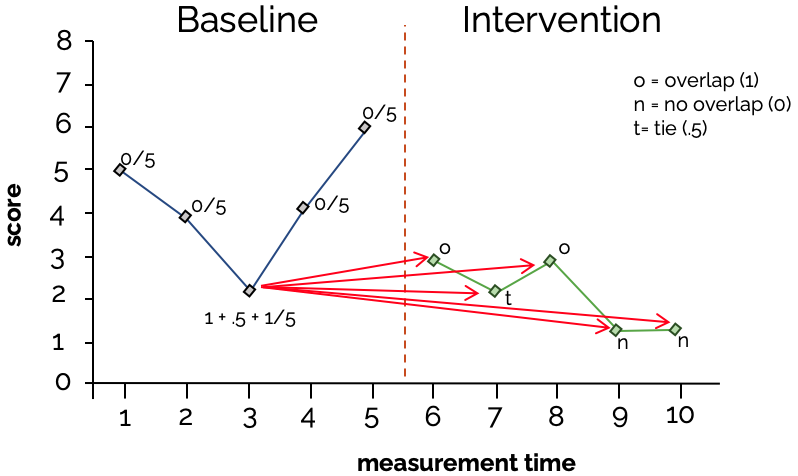
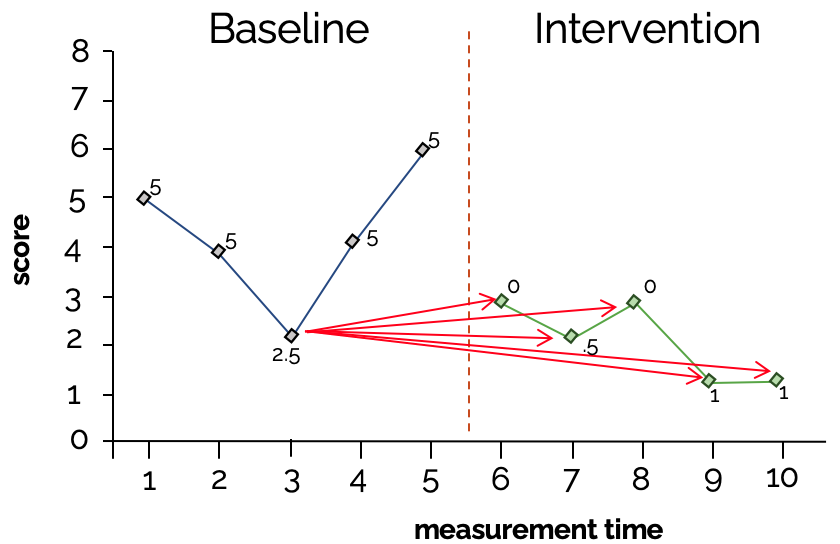
NAP

diff --git a/Untitled.html b/Untitled.html
@@ -749,35 +749,15 @@ Intenta abordar las siguientes preguntas  de investigación:
 (3) ¿Existen relaciones significativas entre la trayectoria de la VD y otras covariables potenciales? Los análisis de cambio de nivel y pendiente son relevantes para los estudios de efectividad de la intervención y otras preguntas de investigación en las que se espera que la IV produzca cambios en la VD en una dirección particular.
 
 ---
+background-image: url(https://github.com/danielesnm/SCEDs/blob/main/img/ESSCED.png?raw=true)
+background-position: 50% 97%
+background-size: 70%
 # &lt;svg xmlns="http://www.w3.org/2000/svg" viewBox="0 0 576 512" class="rfa" style="height:0.75em;fill:salmon;position:relative;"&gt;&lt;path d="M571.31 251.31l-22.62-22.62c-6.25-6.25-16.38-6.25-22.63 0L480 274.75l-46.06-46.06c-6.25-6.25-16.38-6.25-22.63 0l-22.62 22.62c-6.25 6.25-6.25 16.38 0 22.63L434.75 320l-46.06 46.06c-6.25 6.25-6.25 16.38 0 22.63l22.62 22.62c6.25 6.25 16.38 6.25 22.63 0L480 365.25l46.06 46.06c6.25 6.25 16.38 6.25 22.63 0l22.62-22.62c6.25-6.25 6.25-16.38 0-22.63L525.25 320l46.06-46.06c6.25-6.25 6.25-16.38 0-22.63zM552 0H307.65c-14.54 0-27.26 9.8-30.95 23.87l-84.79 322.8-58.41-106.1A32.008 32.008 0 0 0 105.47 224H24c-13.25 0-24 10.74-24 24v48c0 13.25 10.75 24 24 24h43.62l88.88 163.73C168.99 503.5 186.3 512 204.94 512c17.27 0 44.44-9 54.28-41.48L357.03 96H552c13.25 0 24-10.75 24-24V24c0-13.26-10.75-24-24-24z"/&gt;&lt;/svg&gt; Effect Size (ES)
 
-a) Índice cuantitativo que estima la importancia del cambio asociado con una intervención. Complementa al análisis visual para proporcionar resultados estandarizados y confiables que contribuyan a prácticas basadas en evidencia. 
+a) Estima la importancia del cambio asociado con una intervención. Complementa al análisis visual, proporcionando resultados estandarizados y confiables.. 
 
 b) Cuando se reportan estimaciones de ES creíbles además de los datos analizados visualmente, mejora la credibilidad, confiabilidad de los hallazgos.
 
-c)  ES robustos apoyan la detección de pequeñas diferencias entre tratamientos..
-
----
-background-image: url(hhttps://github.com/danielesnm/SCEDs/blob/main/img/dstatistic.png?raw=true)
-background-position:60% 70%
-background-size: 43%
-# &lt;svg xmlns="http://www.w3.org/2000/svg" viewBox="0 0 576 512" class="rfa" style="height:0.75em;fill:salmon;position:relative;"&gt;&lt;path d="M571.31 251.31l-22.62-22.62c-6.25-6.25-16.38-6.25-22.63 0L480 274.75l-46.06-46.06c-6.25-6.25-16.38-6.25-22.63 0l-22.62 22.62c-6.25 6.25-6.25 16.38 0 22.63L434.75 320l-46.06 46.06c-6.25 6.25-6.25 16.38 0 22.63l22.62 22.62c6.25 6.25 16.38 6.25 22.63 0L480 365.25l46.06 46.06c6.25 6.25 16.38 6.25 22.63 0l22.62-22.62c6.25-6.25 6.25-16.38 0-22.63L525.25 320l46.06-46.06c6.25-6.25 6.25-16.38 0-22.63zM552 0H307.65c-14.54 0-27.26 9.8-30.95 23.87l-84.79 322.8-58.41-106.1A32.008 32.008 0 0 0 105.47 224H24c-13.25 0-24 10.74-24 24v48c0 13.25 10.75 24 24 24h43.62l88.88 163.73C168.99 503.5 186.3 512 204.94 512c17.27 0 44.44-9 54.28-41.48L357.03 96H552c13.25 0 24-10.75 24-24V24c0-13.26-10.75-24-24-24z"/&gt;&lt;/svg&gt; Effect Size (ES)
-
-.left-column[.orange[Standardized Mean &lt;svg xmlns="http://www.w3.org/2000/svg" viewBox="0 0 448 512" class="rfa" style="height:0.75em;fill:salmon;position:relative;"&gt;&lt;path d="M190.5 66.9l22.2-22.2c9.4-9.4 24.6-9.4 33.9 0L441 239c9.4 9.4 9.4 24.6 0 33.9L246.6 467.3c-9.4 9.4-24.6 9.4-33.9 0l-22.2-22.2c-9.5-9.5-9.3-25 .4-34.3L311.4 296H24c-13.3 0-24-10.7-24-24v-32c0-13.3 10.7-24 24-24h287.4L190.9 101.2c-9.8-9.3-10-24.8-.4-34.3z"/&gt;&lt;/svg&gt; Difference]
-&lt;br&gt;&lt;br&gt;
-.orange[Regresion based &lt;svg xmlns="http://www.w3.org/2000/svg" viewBox="0 0 448 512" class="rfa" style="height:0.75em;fill:salmon;position:relative;"&gt;&lt;path d="M190.5 66.9l22.2-22.2c9.4-9.4 24.6-9.4 33.9 0L441 239c9.4 9.4 9.4 24.6 0 33.9L246.6 467.3c-9.4 9.4-24.6 9.4-33.9 0l-22.2-22.2c-9.5-9.5-9.3-25 .4-34.3L311.4 296H24c-13.3 0-24-10.7-24-24v-32c0-13.3 10.7-24 24-24h287.4L190.9 101.2c-9.8-9.3-10-24.8-.4-34.3z"/&gt;&lt;/svg&gt; models]
-]
-
-.right-column[- d for single case designs  
-- Between-cases standardised mean difference (BC-SMD)  
-- Percentage change index (PCI). 
-
-&lt;br&gt;  
-- Slope and level change (SLC)  
-- Generalised least squares regression  
-- Piecewise regression  
-- Multilevel analysis 
-]
 
 ???
 Se calcula tomando la media de los datos de la fase B, restando por la media de los datos de la fase A y dividiendo por la desviación estándar de la fase A.  
@@ -785,13 +765,7 @@ Las ventajas de este enfoque son que los cálculos son simples y directos y que 
 
 Sin embargo, no tiene en cuenta todas las características del SCD que explica el análisis visual, en particular la tendencia. Además, como la mayoría de los otros enfoques, el cálculo no tiene en cuenta la dependencia serial en los datos y, como resultado, los errores estándar pueden ser mal estimados, aumentando las tasas de error de Tipo I o Tipo II, dependiendo de la dirección de la autocorrelación.
 
-
----
-# &lt;svg xmlns="http://www.w3.org/2000/svg" viewBox="0 0 576 512" class="rfa" style="height:0.75em;fill:salmon;position:relative;"&gt;&lt;path d="M571.31 251.31l-22.62-22.62c-6.25-6.25-16.38-6.25-22.63 0L480 274.75l-46.06-46.06c-6.25-6.25-16.38-6.25-22.63 0l-22.62 22.62c-6.25 6.25-6.25 16.38 0 22.63L434.75 320l-46.06 46.06c-6.25 6.25-6.25 16.38 0 22.63l22.62 22.62c6.25 6.25 16.38 6.25 22.63 0L480 365.25l46.06 46.06c6.25 6.25 16.38 6.25 22.63 0l22.62-22.62c6.25-6.25 6.25-16.38 0-22.63L525.25 320l46.06-46.06c6.25-6.25 6.25-16.38 0-22.63zM552 0H307.65c-14.54 0-27.26 9.8-30.95 23.87l-84.79 322.8-58.41-106.1A32.008 32.008 0 0 0 105.47 224H24c-13.25 0-24 10.74-24 24v48c0 13.25 10.75 24 24 24h43.62l88.88 163.73C168.99 503.5 186.3 512 204.94 512c17.27 0 44.44-9 54.28-41.48L357.03 96H552c13.25 0 24-10.75 24-24V24c0-13.26-10.75-24-24-24z"/&gt;&lt;/svg&gt; Effect Size (ES)
-
-.left-column[.orange[Regresion based &lt;svg xmlns="http://www.w3.org/2000/svg" viewBox="0 0 448 512" class="rfa" style="height:0.75em;fill:salmon;position:relative;"&gt;&lt;path d="M190.5 66.9l22.2-22.2c9.4-9.4 24.6-9.4 33.9 0L441 239c9.4 9.4 9.4 24.6 0 33.9L246.6 467.3c-9.4 9.4-24.6 9.4-33.9 0l-22.2-22.2c-9.5-9.5-9.3-25 .4-34.3L311.4 296H24c-13.3 0-24-10.7-24-24v-32c0-13.3 10.7-24 24-24h287.4L190.9 101.2c-9.8-9.3-10-24.8-.4-34.3z"/&gt;&lt;/svg&gt; models]]
-
-
+El mayor enfoque en los tamaños del efecto en la investigación cuantitativa seguirá teniendo un impacto en la investigación de la SCD y promoverá más estudios. El manual de publicación de la Asociación Estadounidense de Psicología, que comienza con la quinta edición, ha sugerido que todos los manuscritos publicados incluyan tamaños de efecto. Además, dado que los investigadores esperan utilizar los SCD para la identificación de prácticas basadas en evidencia, los financiadores de subvenciones y los encargados de formular políticas requerirán análisis más sofisticados de los efectos de la intervención más allá del análisis visual. Aunque actualmente no existe un método acordado, esta revisión describe una serie de opciones viables para los investigadores. A medida que crece la base de la literatura en este campo, también lo hará su capacidad para definir los mejores métodos para el análisis del efecto para la investigación de la ECF.
 
 ---
 background-image: url(https://cdn-prod.voxy.com/wp-content/uploads/2017/10/DataScience-Color.png)
@@ -915,10 +889,15 @@ background-position:95% 50%
 background-size: 45%
 # &lt;svg xmlns="http://www.w3.org/2000/svg" viewBox="0 0 576 512" class="rfa" style="height:0.75em;fill:salmon;position:relative;"&gt;&lt;path d="M571.31 251.31l-22.62-22.62c-6.25-6.25-16.38-6.25-22.63 0L480 274.75l-46.06-46.06c-6.25-6.25-16.38-6.25-22.63 0l-22.62 22.62c-6.25 6.25-6.25 16.38 0 22.63L434.75 320l-46.06 46.06c-6.25 6.25-6.25 16.38 0 22.63l22.62 22.62c6.25 6.25 16.38 6.25 22.63 0L480 365.25l46.06 46.06c6.25 6.25 16.38 6.25 22.63 0l22.62-22.62c6.25-6.25 6.25-16.38 0-22.63L525.25 320l46.06-46.06c6.25-6.25 6.25-16.38 0-22.63zM552 0H307.65c-14.54 0-27.26 9.8-30.95 23.87l-84.79 322.8-58.41-106.1A32.008 32.008 0 0 0 105.47 224H24c-13.25 0-24 10.74-24 24v48c0 13.25 10.75 24 24 24h43.62l88.88 163.73C168.99 503.5 186.3 512 204.94 512c17.27 0 44.44-9 54.28-41.48L357.03 96H552c13.25 0 24-10.75 24-24V24c0-13.26-10.75-24-24-24z"/&gt;&lt;/svg&gt; .pink[NAP.] non-overlap of all pairs
 
-.pull-left[1. Para cada punto de datos de la Fase A:
-- 1 por cada dato de la fase B que lo supere (overlap)
-- .5 por cada dato de la fase B que sea igual (tie)
-- 0 por cada dato de la fase B que sea menor (no overlap)
+.pull-left[1. NAP comienza con todas las comparaciones por pares 
+(#Pairs = n A × n B) entre fases.  
+
+2. Cada comparación tiene uno de tres resultados:  
+mejora (1)  
+no mejora (0)  
+empate (.5).  
+
+3. NAP = (Pos +.5 × Empate) / #Pairs.
 ]
 
 ---
@@ -927,21 +906,20 @@ background-position:95% 50%
 background-size: 45%
 # &lt;svg xmlns="http://www.w3.org/2000/svg" viewBox="0 0 576 512" class="rfa" style="height:0.75em;fill:salmon;position:relative;"&gt;&lt;path d="M571.31 251.31l-22.62-22.62c-6.25-6.25-16.38-6.25-22.63 0L480 274.75l-46.06-46.06c-6.25-6.25-16.38-6.25-22.63 0l-22.62 22.62c-6.25 6.25-6.25 16.38 0 22.63L434.75 320l-46.06 46.06c-6.25 6.25-6.25 16.38 0 22.63l22.62 22.62c6.25 6.25 16.38 6.25 22.63 0L480 365.25l46.06 46.06c6.25 6.25 16.38 6.25 22.63 0l22.62-22.62c6.25-6.25 6.25-16.38 0-22.63L525.25 320l46.06-46.06c6.25-6.25 6.25-16.38 0-22.63zM552 0H307.65c-14.54 0-27.26 9.8-30.95 23.87l-84.79 322.8-58.41-106.1A32.008 32.008 0 0 0 105.47 224H24c-13.25 0-24 10.74-24 24v48c0 13.25 10.75 24 24 24h43.62l88.88 163.73C168.99 503.5 186.3 512 204.94 512c17.27 0 44.44-9 54.28-41.48L357.03 96H552c13.25 0 24-10.75 24-24V24c0-13.26-10.75-24-24-24z"/&gt;&lt;/svg&gt; .pink[NAP.] non-overlap of all pairs
 
-.pull-left[2.Sumar los valores para todos los datos del paso 1 y dividir por el # de comparaci0nes
-- 1 + .5 + 1 = 2.5
-
-3.Dividir la suma del paso 2 por el # total de comparaciones posibles (5x5= 25)
-- 2.5/25 = .1
+.pull-left[
 ## .pink[NAP = .1]
+
+.pink[Ventaja numérica:] interpretabilidad
+• &gt;0,8 (efecto muy grande)  
+• 0,6-0,8 (efecto grande)  
+• 0,2-0,6 (efecto moderado)  
+• &lt;0,2 (efecto pequeño) 
 ]
 
 
 ---
 # &lt;svg xmlns="http://www.w3.org/2000/svg" viewBox="0 0 576 512" class="rfa" style="height:0.75em;fill:salmon;position:relative;"&gt;&lt;path d="M571.31 251.31l-22.62-22.62c-6.25-6.25-16.38-6.25-22.63 0L480 274.75l-46.06-46.06c-6.25-6.25-16.38-6.25-22.63 0l-22.62 22.62c-6.25 6.25-6.25 16.38 0 22.63L434.75 320l-46.06 46.06c-6.25 6.25-6.25 16.38 0 22.63l22.62 22.62c6.25 6.25 16.38 6.25 22.63 0L480 365.25l46.06 46.06c6.25 6.25 16.38 6.25 22.63 0l22.62-22.62c6.25-6.25 6.25-16.38 0-22.63L525.25 320l46.06-46.06c6.25-6.25 6.25-16.38 0-22.63zM552 0H307.65c-14.54 0-27.26 9.8-30.95 23.87l-84.79 322.8-58.41-106.1A32.008 32.008 0 0 0 105.47 224H24c-13.25 0-24 10.74-24 24v48c0 13.25 10.75 24 24 24h43.62l88.88 163.73C168.99 503.5 186.3 512 204.94 512c17.27 0 44.44-9 54.28-41.48L357.03 96H552c13.25 0 24-10.75 24-24V24c0-13.26-10.75-24-24-24z"/&gt;&lt;/svg&gt; .pink[NAP.] non-overlap of all pairs
-.pink[Ventaja numérica:] interpretabilidad
-- valor de 1 indica una mejora perfecta
-- valor de .5 indica que no hay cambios
-- valor de 0 indica reducción perfecta
+
 
 ---
 background-image: url(https://github.com/danielesnm/SCEDs/blob/main/img/NAPpaso1.png?raw=true)
